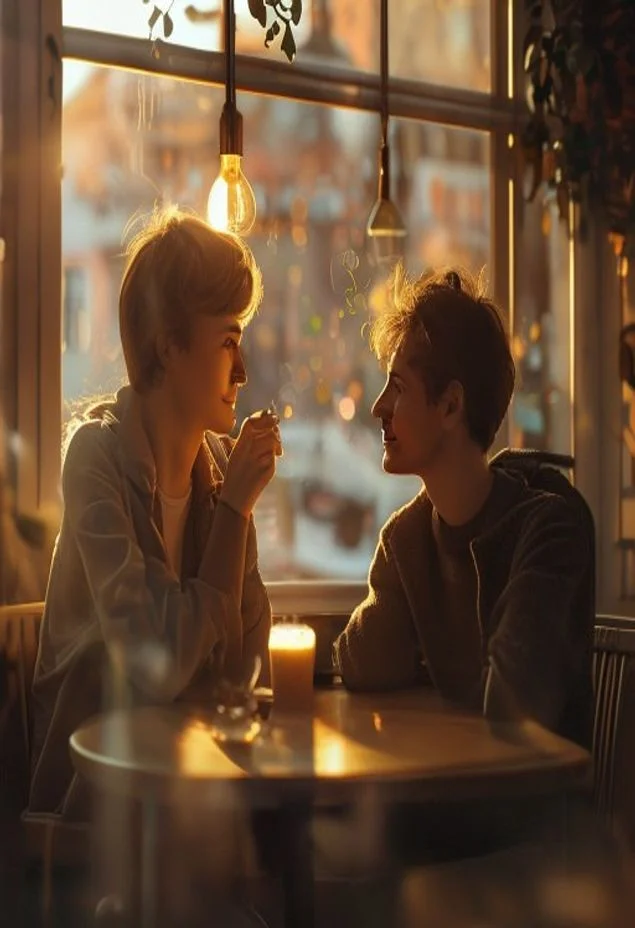
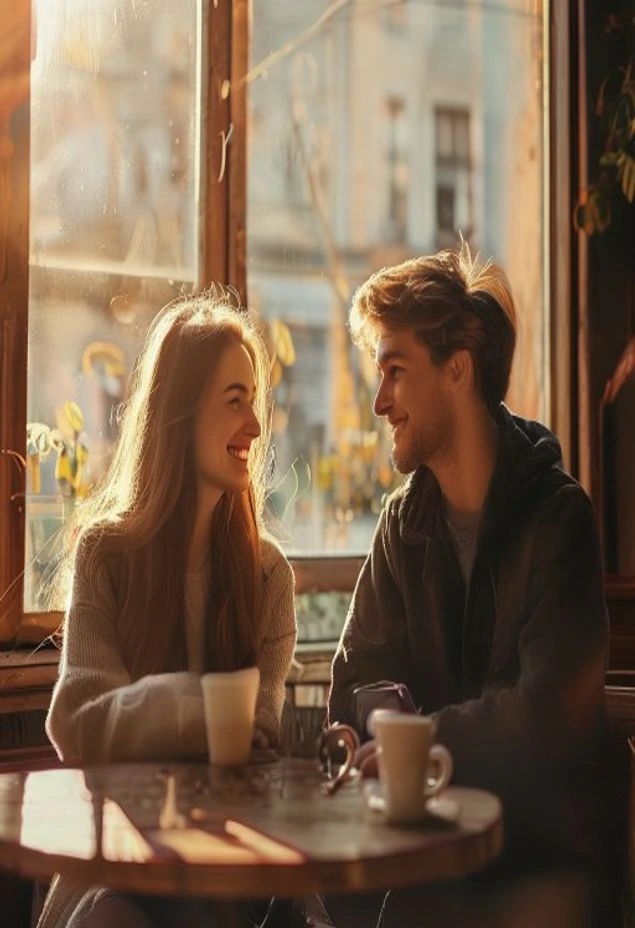
v2.7.0 SPRINT 42 — win polish: confetti + earlier music + texts + photo regen
5 fixes per Tim playtest:

1. win_love.webp regenerated (was hallucinated faces, low quality):
   new prompt + quality 92, real young couple at sunlit cafe, photorealistic.

2. Win body text: '12 дней позади' → '30 дней позади. целый месяц
   на своих ногах'. Reflects actual game length (was legacy from v1).

3. Love ending text rewrite — 'Кирилл не был персонажем, он был
   человеком' was clunky (Tim: 'плохая фраза, бля Кирилл всё-таки
   персонаж'). New: 'с Кириллом всё стало просто: он рядом, ты дома,
   и работа больше не одна / впереди — следующий месяц'.
   About future, not breaking the 4th wall awkwardly.

4. Finale music starts day 27 (was day 29). Tim: 'лучше с 27 дня'.
   Builds emotional buildup before love ending fires day 30.

5. Confetti burst on win — spawnConfetti(120) creates 120 colorful
   pieces falling from top of screen, randomized colors/sizes/rotation.
   CSS .confetti pure transform/opacity transitions, GPU-friendly.
   Fires from showWin() before love bonus card.

diff --git a/marina-next/script/marina.js b/marina-next/script/marina.js
@@ -17,7 +17,7 @@
   // SPRINT 18 — split versions
   // APP_VERSION: cache-bust + UI display, changes every deploy
   // SAVE_SCHEMA_VERSION: persistence shape, only changes when state structure changes
-  var APP_VERSION = '2.6.9';
+  var APP_VERSION = '2.7.0';
   var SAVE_SCHEMA_VERSION = 1; // bump only on state shape change
   var VERSION = APP_VERSION; // legacy alias kept for existing refs
   var STATE_KEY = 'marina-fire:v2.0:state';
@@ -463,7 +463,7 @@
     });
     // SPRINT 14.1 rev3 — forward-merge compatible saves across 2.x minor versions
     // (Codex decision audit BLOCKER #2: don't reset player progress on every bump)
-    var COMPATIBLE_VERSIONS = ['2.2.0', '2.2.1', '2.2.2', '2.2.3', '2.2.4', '2.2.5', '2.2.6', '2.2.7', '2.2.8', '2.2.9', '2.3.0', '2.3.1', '2.3.2', '2.3.3', '2.3.4', '2.3.5', '2.3.6', '2.3.7', '2.3.8', '2.3.9', '2.4.0', '2.4.1', '2.4.2', '2.4.3', '2.5.0', '2.5.1', '2.5.2', '2.5.3', '2.5.4', '2.5.5', '2.5.6', '2.5.7', '2.5.8', '2.6.0', '2.6.1', '2.6.2', '2.6.3', '2.6.4', '2.6.5', '2.6.6', '2.6.7', '2.6.8', '2.6.9', '2.1.1'];
+    var COMPATIBLE_VERSIONS = ['2.2.0', '2.2.1', '2.2.2', '2.2.3', '2.2.4', '2.2.5', '2.2.6', '2.2.7', '2.2.8', '2.2.9', '2.3.0', '2.3.1', '2.3.2', '2.3.3', '2.3.4', '2.3.5', '2.3.6', '2.3.7', '2.3.8', '2.3.9', '2.4.0', '2.4.1', '2.4.2', '2.4.3', '2.5.0', '2.5.1', '2.5.2', '2.5.3', '2.5.4', '2.5.5', '2.5.6', '2.5.7', '2.5.8', '2.6.0', '2.6.1', '2.6.2', '2.6.3', '2.6.4', '2.6.5', '2.6.6', '2.6.7', '2.6.8', '2.6.9', '2.7.0', '2.1.1'];
     try {
       var raw = localStorage.getItem(STATE_KEY);
       var ver = localStorage.getItem(VERSION_KEY);
@@ -1916,6 +1916,46 @@
     return el.getBoundingClientRect();
   }
 
+  // SPRINT 42 — confetti burst for win overlay (CSS-only, GPU-friendly)
+  function spawnConfetti(count) {
+    var n = count || 80;
+    var colors = ['#ff6b3d', '#ffd166', '#65c77e', '#7cc4ff', '#ff6b95', '#c197ff', '#ffffff'];
+    for (var i = 0; i < n; i++) {
+      (function (idx) {
+        var $c = $('<div class="confetti">');
+        var startX = window.innerWidth * (0.1 + Math.random() * 0.8);
+        var startY = -20 - Math.random() * 80;
+        var endX = startX + (Math.random() - 0.5) * 400;
+        var endY = window.innerHeight + 60;
+        var rotEnd = (Math.random() - 0.5) * 1080;
+        var size = 6 + Math.random() * 8;
+        var color = colors[idx % colors.length];
+        $c.css({
+          left: startX + 'px',
+          top: startY + 'px',
+          width: size + 'px',
+          height: (size * (0.5 + Math.random() * 1.2)) + 'px',
+          background: color,
+          transform: 'rotate(0deg)',
+          opacity: '1'
+        });
+        $(document.body).append($c);
+        var dur = 2200 + Math.random() * 1800;
+        var delay = idx * 18;
+        setTimeout(function () {
+          $c.css({
+            transition: 'transform ' + dur + 'ms cubic-bezier(0.2, 0.7, 0.4, 1), top ' + dur + 'ms cubic-bezier(0.3, 0.6, 0.5, 1), left ' + dur + 'ms ease-out, opacity ' + (dur - 400) + 'ms ease-in',
+            top: endY + 'px',
+            left: endX + 'px',
+            transform: 'rotate(' + rotEnd + 'deg)',
+            opacity: '0.85'
+          });
+        }, delay);
+        setTimeout(function () { $c.remove(); }, dur + delay + 400);
+      })(i);
+    }
+  }
+
   function spawnParticle(opts) {
     // opts: { from: {x,y} OR actionId, to: {x,y} OR actionId OR 'cash', kind, icon, duration }
     if (_particleCount >= 14) return;
@@ -2471,7 +2511,7 @@
         // Check mid-month hard-fail conditions (hunger starvation / comfort breakdown / cash crash)
         try { checkEndings(false); } catch (e) {}
         // SPRINT 02 — Finale track kicks in on last 2 days
-        if (STATE.day >= 29 && window.MarinaAudio && window.MarinaAudio.playFinaleTrack) {
+        if (STATE.day >= 27 && window.MarinaAudio && window.MarinaAudio.playFinaleTrack) { // SPRINT 42 — earlier finale music
           try { window.MarinaAudio.playFinaleTrack(); } catch (e) {}
         }
       } catch (e) {
@@ -4399,12 +4439,14 @@
     $card.find('.ending-hero').remove();
     var winHero = STATE.love_ending_unlocked ? 'img/endings/win_love.webp' : 'img/endings/win_main.webp';
     $('<img class="ending-hero" />').attr('src', winHero).attr('alt', 'победа').prependTo($card);
+    // SPRINT 42 — confetti burst on win
+    try { spawnConfetti(120); } catch (e) {}
     if (STATE.love_ending_unlocked) {
       var $love = $('<div class="love-bonus">').html(
         '<div class="love-kicker">❤ LOVE ENDING UNLOCKED</div>' +
         '<p>ты не только дожила до конца месяца — ты ещё и влюбилась.</p>' +
-        '<p>Кирилл не был персонажем. он был человеком. и ты это увидела.</p>' +
-        '<p class="love-quiet">в следующем месяце он рядом.</p>'
+        '<p>с Кириллом всё стало просто: он рядом, ты дома, и работа больше не одна.</p>' +
+        '<p class="love-quiet">впереди — следующий месяц, и он точно будет другим.</p>'
       );
       $card.find('.overlay-body').after($love);
     }

diff --git a/marina-next/play.html b/marina-next/play.html
@@ -19,7 +19,7 @@
   <meta name="twitter:description" content="30 дней, $500, три проекта. Выживи первый месяц как фаундер. 15-20 мин, бесплатно."/>
   <meta name="twitter:image" content="https://timzinin.com/marina-next/img/hero/hero_main.webp"/>
   <link rel="icon" href="favicon.ico"/>
-  <link rel="stylesheet" type="text/css" href="css/marina.css?v=2.6.9"/>
+  <link rel="stylesheet" type="text/css" href="css/marina.css?v=2.7.0"/>
 
   <!-- This Source Code Form is subject to the terms of the Mozilla Public License, v. 2.0. -->
   <!-- Forked from A Dark Room by Michael Townsend (doublespeakgames/adarkroom). -->
@@ -53,7 +53,7 @@
         <div class="overlay-kicker">ПЕРВЫЙ МЕСЯЦ ПРОЙДЕН</div>
         <div class="overlay-stats" id="win-stats"></div>
         <div class="overlay-body">
-          <p>12 дней позади.</p>
+          <p>30 дней позади. целый месяц на своих ногах.</p>
           <p>ты завершила свой первый месяц как фаундер.</p>
           <p>это не конец — это только начало.</p>
           <p>второй месяц приходит скоро.</p>
@@ -182,9 +182,9 @@
 
   </div>
 
-  <script src="script/lead.js?v=2.6.9"></script>
-  <script src="script/marina-audio.js?v=2.6.9"></script>
-  <script src="script/bubbles.js?v=2.6.9"></script>
-  <script src="script/marina.js?v=2.6.9"></script>
+  <script src="script/lead.js?v=2.7.0"></script>
+  <script src="script/marina-audio.js?v=2.7.0"></script>
+  <script src="script/bubbles.js?v=2.7.0"></script>
+  <script src="script/marina.js?v=2.7.0"></script>
 </body>
 </html>

diff --git a/marina-next/index.html b/marina-next/index.html
@@ -20,7 +20,7 @@
   <meta name="twitter:image" content="https://timzinin.com/marina-next/img/hero/hero_main.webp"/>
   <link rel="icon" href="favicon.ico"/>
   <link rel="preload" as="image" href="img/hero/hero_main.webp"/>
-  <link rel="stylesheet" type="text/css" href="css/landing.css?v=2.6.9"/>
+  <link rel="stylesheet" type="text/css" href="css/landing.css?v=2.7.0"/>
 
   <!-- MPL-2.0 · fork of A Dark Room (doublespeakgames/adarkroom) -->
   <!-- SPRINT 22 — Umami analytics (privacy-respecting, no cookies) -->
@@ -172,7 +172,7 @@
   </section>
 
   <footer class="site-footer">
-    <p>v2.6.9 survival · <a href="/marina-terminal/">terminal версия</a> · <a href="/marina/">v1.6a live</a></p>
+    <p>v2.7.0 survival · <a href="/marina-terminal/">terminal версия</a> · <a href="/marina/">v1.6a live</a></p>
     <p class="author">игра-лид-магнит от <a href="https://t.me/timofeyzinin" target="_blank" rel="noopener">@timofeyzinin</a></p>
     <p class="license">MPL-2.0 · fork of <a href="https://github.com/doublespeakgames/adarkroom" target="_blank" rel="noopener">A Dark Room</a> · <a href="https://github.com/TimmyZinin/marina-v-ogne" target="_blank" rel="noopener">source</a></p>
   </footer>

diff --git a/marina-next/css/marina.css b/marina-next/css/marina.css
@@ -1274,6 +1274,16 @@ body.dock-collapsed #action-dock {
   color: #fff;
 }
 
+/* SPRINT 42 — win overlay confetti burst */
+.confetti {
+  position: fixed;
+  z-index: 1100;
+  pointer-events: none;
+  border-radius: 2px;
+  will-change: transform, top, left, opacity;
+  box-shadow: 0 0 6px rgba(0, 0, 0, 0.18);
+}
+
 /* SPRINT 28 — beautiful ending hero images */
 .ending-hero {
   display: block;
